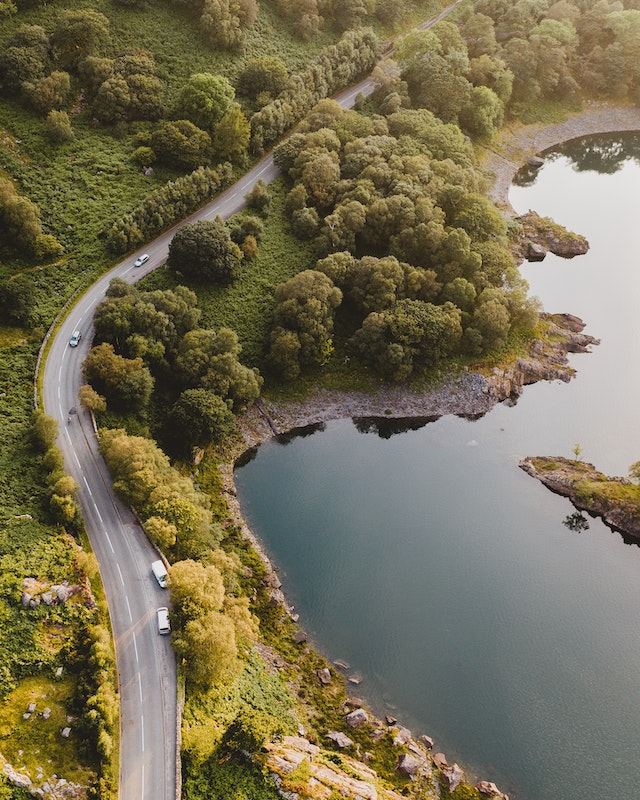
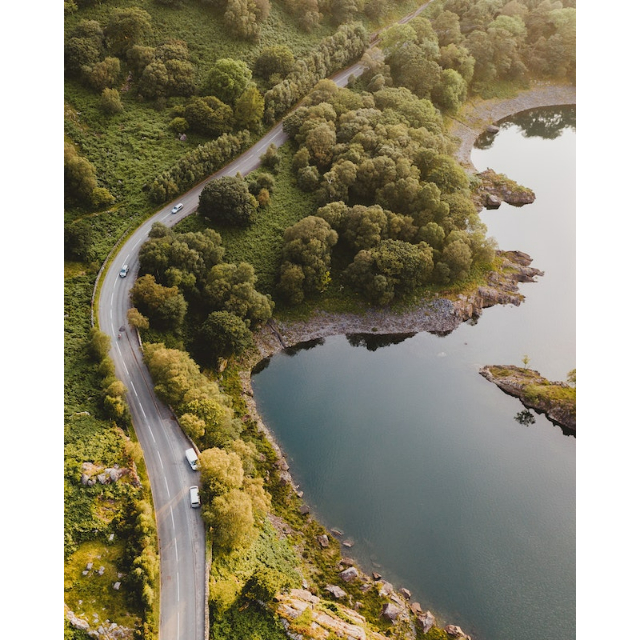
add same image dimensions, porfolio & footer

diff --git a/index.html b/index.html
@@ -26,6 +26,8 @@
 <body class="text-center">
 
     <header>
+
+        <!-- HERE GOES THE NAVIGATION BAR -->
         <nav class="navbar navbar-expand-sm bg-body-tertiary bg-dark border-0" data-bs-theme="dark">
             <div class="container-fluid">
                 <a class="navbar-brand" href="index.html">
@@ -58,77 +60,171 @@
         </nav>
     </header>
 
+    <!-- **************HERO BANNER***************** -->
+
     <main>
         <section class="hero container-fluid" role="banner">
             <div class="container-fluid my-5">
-                <h1>DANIEL CASTRO'S PORTFOLIO</h1>
+                <h1 id="#home">DANIEL CASTRO'S PORTFOLIO</h1>
                 <p>Empowering your digital sports presence with cutting-edge solutions</p>
-                <button type="button" class="btn btn-primary btn-lg"> <a class="text-light"
-                        href="about.html">Get to know me!</a></button>
+                <button type="button" class="btn btn-primary btn-lg"> <a class="text-light" href="about.html">Get to
+                        know me!</a></button>
             </div>
         </section>
 
+        <!-- **************PORTRAIT & ABOUT ME***************** -->
+
         <section>
-            <div class="container m-4">
+            <div class="container">
                 <div class="row">
-                    <div class="col-md">
+                    <div class="col-sm">
                         <img class="img-fluid" src="images/daniel-castro.jpg" alt="Portrait of Daniel Castro">
                     </div>
 
                     <div class="col-xl">
-                        <h2 class="display-2 mt-4 text-center">ABOUT ME</h2>
-                        <p class="text-center">Welcome to my portfolio website! Daniel specializes in providing innovative solutions for
-                            businesses looking to enhance their online presence and reach a wider audience through
-                            digital channels.</p>
+                        <h2 class="display-2 mt-4">ABOUT ME</h2>
+                        <p class="text-center"> I'm  passionate about helping businesses of all sizes improve their online presence and expand
+                            their reach through innovative digital solutions. In today's fast-paced digital world, it's
+                            more important than ever for businesses to have a strong online presence that resonates with
+                            their target audience.
+
+                            I'm dedicated to staying on top of
+                            the latest trends and technologies in the digital space, so that I can provide my clients with
+                            the most effective solutions possible. Plus, I understand that every business is unique,
+                            which is why I take a personalized approach to every project I work on. I'll take the time
+                            to understand your specific goals and challenges, and work with you to develop a customized
+                            plan that meets your needs.</p>
+    
                     </div>
                 </div>
             </div>
         </section>
 
-        <section class="services"></section>
-        <h2 class="display-2 m-4 text-center" id="services">SERVICES</h2>
-        <div class="row">
-        <div class="col-xl">
-            <div class="card" style="width: 16rem;">
-                <img src="images/baseball-player.jpg" class="card-img-top img-fluid border-0"
-                    alt="Baseball Player Portrait">
-                <div class="card-body text-center">
-                    <h5 class="card-title">Sports Videography</h5>
-                    <p class="card-text">Professional and high-quality video production services that can help sport
-                        teams to create engaging and effective video content.</p>
-                    <a href="#" class="btn btn-primary">Read More</a>
+        <!-- ************** SERVICES CARDS***************** -->
+
+        <section class="services">
+            <h2 class="display-2 my-5" id="services">SERVICES</h2>
+            <div class="row mx-0">
+                <div class="col-md-4">
+                    <div class="card">
+                        <img src="images/kid-snowboarding.jpg" class="card-img-top img-thumbnail border-0"
+                            alt="Baseball Player Portrait">
+                        <div class="card-body">
+                            <h5 class="card-title">Sports Videography</h5>
+                            <p class="card-text">Professional and high-quality video production services that can help
+                                sport
+                                teams to create engaging and effective video content.</p>
+                            <a href="#" class="btn btn-primary">Read More</a>
+                        </div>
+                    </div>
+                </div>
+                <div class="col-md-4">
+                    <div class="card">
+                        <img src="images/church.jpg" class="card-img-top img-thumbnail border-0"
+                            alt="church in a autumn forest">
+                        <div class="card-body">
+                            <h5 class="card-title">Photography</h5>
+                            <p class="card-text">Capturing the moments that matter most with professional photography
+                                services
+                                for sports, landscapes, and portraits.</p>
+                            <a href="#" class="btn btn-primary">Read More</a>
+                        </div>
+                    </div>
+                </div>
+                <div class="col-md-4">
+                    <div class="card">
+                        <img src="images/programming.jpg" class="card-img-top img-thumbnail border-0"
+                            alt="person typing with cellphone and computer">
+                        <div class="card-body">
+                            <h5 class="card-title">Wev Development</h5>
+                            <p class="card-text">We create custom websites to suit your needs. From simple one-page
+                                sites to complex e-commerce solutions.</p>
+                            <a href="#" class="btn btn-primary">Read More</a>
+                        </div>
+                    </div>
                 </div>
             </div>
-        </div>
-        <div class="col-xl">
-            <div class="card" style="width: 16rem;">
-                <img src="images/church.jpg" class="card-img-top img-fluid border-0" alt="church in a autumn forest">
-                <div class="card-body text-center">
-                    <h5 class="card-title">Photography</h5>
-                    <p class="card-text">Capturing the moments that matter most with professional photography services
-                        for sports, landscapes, and portraits.</p>
-                    <a href="#" class="btn btn-primary">Read More</a>
-                </div>
-            </div>
-        </div>
-        <div class="col-md">
-            <div class="card" style="width: 16rem;">
-                <img src="images/programming.jpg" class="card-img-top img-fluid border-0"
-                    alt="person typing with cellphone and computer">
-                <div class="card-body text-center">
-                    <h5 class="card-title">Wev Development</h5>
-                    <p class="card-text">With experience in HTML & CSS, Daniel can create a custom website to suit your
-                        needs. From simple one-page sites to complex e-commerce solutions.</p>
-                    <a href="#" class="btn btn-primary">Read More</a>
-                </div>
-            </div>
-        </div>
-        </div>
+        </section>
+
+        <!-- ************** THIS IS THE PORTFOLIO***************** -->
 
         <section class="text-center container-fluid">
             <h2 class="display-3 m-4">PORTFOLIO</h2>
+            <div class="row m-2 gap-2">
+                <div class="col-xl"><img src="images/blue-futuristic-computer.jpg"
+                        class="card-img-top img-fluid border-0" alt="person typing with cellphone and computer"></div>
+                <div class="col-xl"><img src="images/jack-grealish.jpg" class="card-img-top img-fluid border-0"
+                        alt="person typing with cellphone and computer"></div>
+                <div class="col-xl"><img src="images/basket-player.jpg" class="card-img-top img-fluid border-0"
+                        alt="person typing with cellphone and computer"></div>
+                <div class="col-xl"><img src="images/surfer.jpg" class="card-img-top img-fluid border-0"
+                        alt="person typing with cellphone and computer"></div>
+            </div>
+            <div class="row m-4 gap-3">
+                <div class="col-xl"><img src="images/waterfall.jpg" class="card-img-top img-fluid border-0"
+                        alt="person typing with cellphone and computer"></div>
+                <div class="col-xl"><img src="images/mountain-river.jpg" class="card-img-top img-fluid border-0"
+                        alt="person typing with cellphone and computer"></div>
+                <div class="col-xl"><img src="images/night-street.jpg" class="card-img-top img-fluid border-0"
+                        alt="person typing with cellphone and computer"></div>
+                <div class="col-xl"><img src="images/church.jpg" class="card-img-top img-fluid border-0"
+                        alt="person typing with cellphone and computer"></div>
+                <button type="button" class="btn btn-primary btn-lg">CHECK MORE</button>
+            </div>
         </section>
     </main>
+
+
+    <!-- HERO GOES THE FOOTER -->
+    <footer class="bg-dark text-center text-white">
+        <div class="container p-4 pb-0">
+            <div class="row d-flex justify-content-center">
+                <div class="col-4-auto">
+                    <p class="pt-2">
+                        <strong>Sign up for our newsletter</strong>
+                    </p>
+                </div>
+
+                <div class="col-md-5 col-12">
+                    <!-- Email input -->
+                    <div class="form-outline form-white mb-4">
+                        <input type="email" id="form5Example29" class="form-control" />
+                        <label class="form-label" for="form5Example29">Email address</label>
+                    </div>
+                </div>
+
+                <div class="col-auto">
+                    <!-- Submit button -->
+                    <button type="submit" class="btn btn-outline-light mb-4">
+                        Subscribe
+                    </button>
+                </div>
+                <div class="col-lg-3 col-md-6 mb-4 mb-md-0">
+                    <ul class="list-unstyled">
+                      <li>
+                        <a href="#!" class="text-white">Home</a>
+                      </li>
+                      <li>
+                        <a href="#!" class="text-white">About</a>
+                      </li>
+                      <li>
+                        <a href="#!" class="text-white">Contact</a>
+                      </li>
+                      <li>
+                        <a href="#!" class="text-white">Services</a>
+                      </li>
+                    </ul>
+                  </div>
+                </div>
+            </div>
+        </div>
+
+        <!-- Copyright -->
+        <div class="text-center p-3" style="background-color: rgba(0, 0, 0, 0.2);">
+            © 2023 Copyright - Daniel Castro
+        </div>
+        <!-- Copyright -->
+    </footer>
 
 
     <!-- Add Boostrap JavaScript -->
